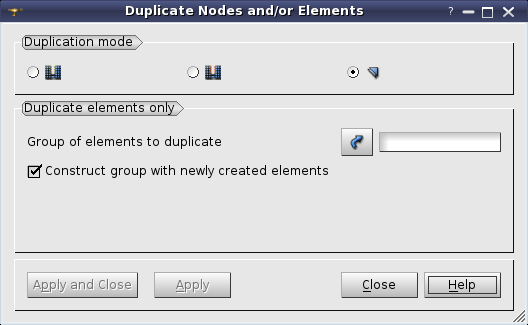
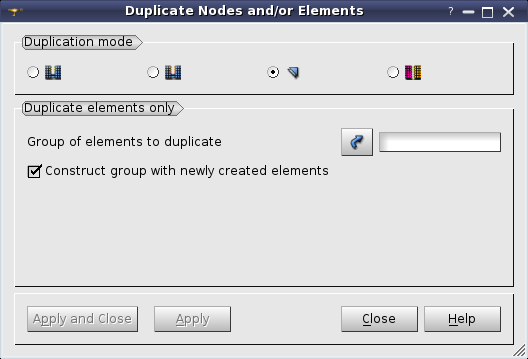
22487: EDF 2778 SMESH: Add a GUI for the flat elements generation

diff --git a/src/SMESHGUI/SMESH_msg_en.ts b/src/SMESHGUI/SMESH_msg_en.ts
@@ -6753,6 +6753,10 @@ It is impossible to read point coordinates from file</translation>
         <translation>Duplicate elements only</translation>
     </message>
     <message>
+        <source>DUPLICATION_GROUP_BOUNDARY</source>
+        <translation>Duplicate nodes on group boundaries</translation>
+    </message>
+    <message>
         <source>GROUP_ELEMS_TO_DUPLICATE</source>
         <translation>Group of elements to duplicate</translation>
     </message>
@@ -6765,12 +6769,24 @@ It is impossible to read point coordinates from file</translation>
         <translation>Group of elements to replace nodes with new ones</translation>
     </message>
     <message>
+        <source>GROUP_VOLUME_GROUPS</source>
+        <translation>Groups of volumes</translation>
+    </message>
+    <message>
         <source>CONSTRUCT_NEW_GROUP_NODES</source>
         <translation>Construct group with newly created nodes</translation>
     </message>
     <message>
         <source>CONSTRUCT_NEW_GROUP_ELEMENTS</source>
         <translation>Construct group with newly created elements</translation>
+    </message>
+    <message>
+        <source>CREATE_JOINT_ELEMENTS</source>
+        <translation>Create joint elements</translation>
+    </message>
+    <message>
+        <source>ON_ALL_BOUNDARIES</source>
+        <translation>On all boundaries</translation>
     </message>
 </context>
 <context>

diff --git a/src/SMESHGUI/SMESH_images.ts b/src/SMESHGUI/SMESH_images.ts
@@ -435,9 +435,13 @@
             <source>ICON_SMESH_DUPLICATE_NODES_WITH_ELEM</source>
             <translation>mesh_duplicate_nodes_with_elem.png</translation>
         </message>
-	    <message>
+        <message>
             <source>ICON_SMESH_DUPLICATE_ELEM_ONLY</source>
             <translation>mesh_duplicate_elem_only.png</translation>
+        </message>
+        <message>
+            <source>ICON_SMESH_DUPLICATE_GROUP_BOUNDARY</source>
+            <translation>mesh_duplicate_group_boundary.png</translation>
         </message>
         <message>
             <source>ICON_SMESH_TREE_ALGO</source>

diff --git a/src/SMESH_SWIG/smeshBuilder.py b/src/SMESH_SWIG/smeshBuilder.py
@@ -4503,9 +4503,11 @@ class Mesh:
     # Triangles are transformed in prisms, and quadrangles in hexahedrons.
     # @param theDomains - list of groups of volumes
     # @param createJointElems - if TRUE, create the elements
+    # @param onAllBoundaries - if TRUE, the nodes and elements are also created on
+    #        the boundary between \a theDomains and the rest mesh
     # @return TRUE if operation has been completed successfully, FALSE otherwise
-    def DoubleNodesOnGroupBoundaries(self, theDomains, createJointElems ):
-       return self.editor.DoubleNodesOnGroupBoundaries( theDomains, createJointElems )
+    def DoubleNodesOnGroupBoundaries(self, theDomains, createJointElems, onAllBoundaries=False ):
+       return self.editor.DoubleNodesOnGroupBoundaries( theDomains, createJointElems, onAllBoundaries )
 
     ## Double nodes on some external faces and create flat elements.
     # Flat elements are mainly used by some types of mechanic calculations.

diff --git a/src/SMESHGUI/SMESHGUI_DuplicateNodesDlg.h b/src/SMESHGUI/SMESHGUI_DuplicateNodesDlg.h
@@ -83,6 +83,8 @@ private slots:
 
   void                    onDeactivate();
 
+  void                    updateButtons();
+
 private:
   QLineEdit*              myCurrentLineEdit;
   
@@ -98,8 +100,8 @@ private:
   QLineEdit*              myLineEdit1;
   QLineEdit*              myLineEdit2;
   QLineEdit*              myLineEdit3;
-  QCheckBox*              myCheckBoxNewElemGroup;
-  QCheckBox*              myCheckBoxNewNodeGroup;
+  QCheckBox*              myCheckBox1;
+  QCheckBox*              myCheckBox2;
 
   QPushButton*            myButtonOk;
   QPushButton*            myButtonApply;
